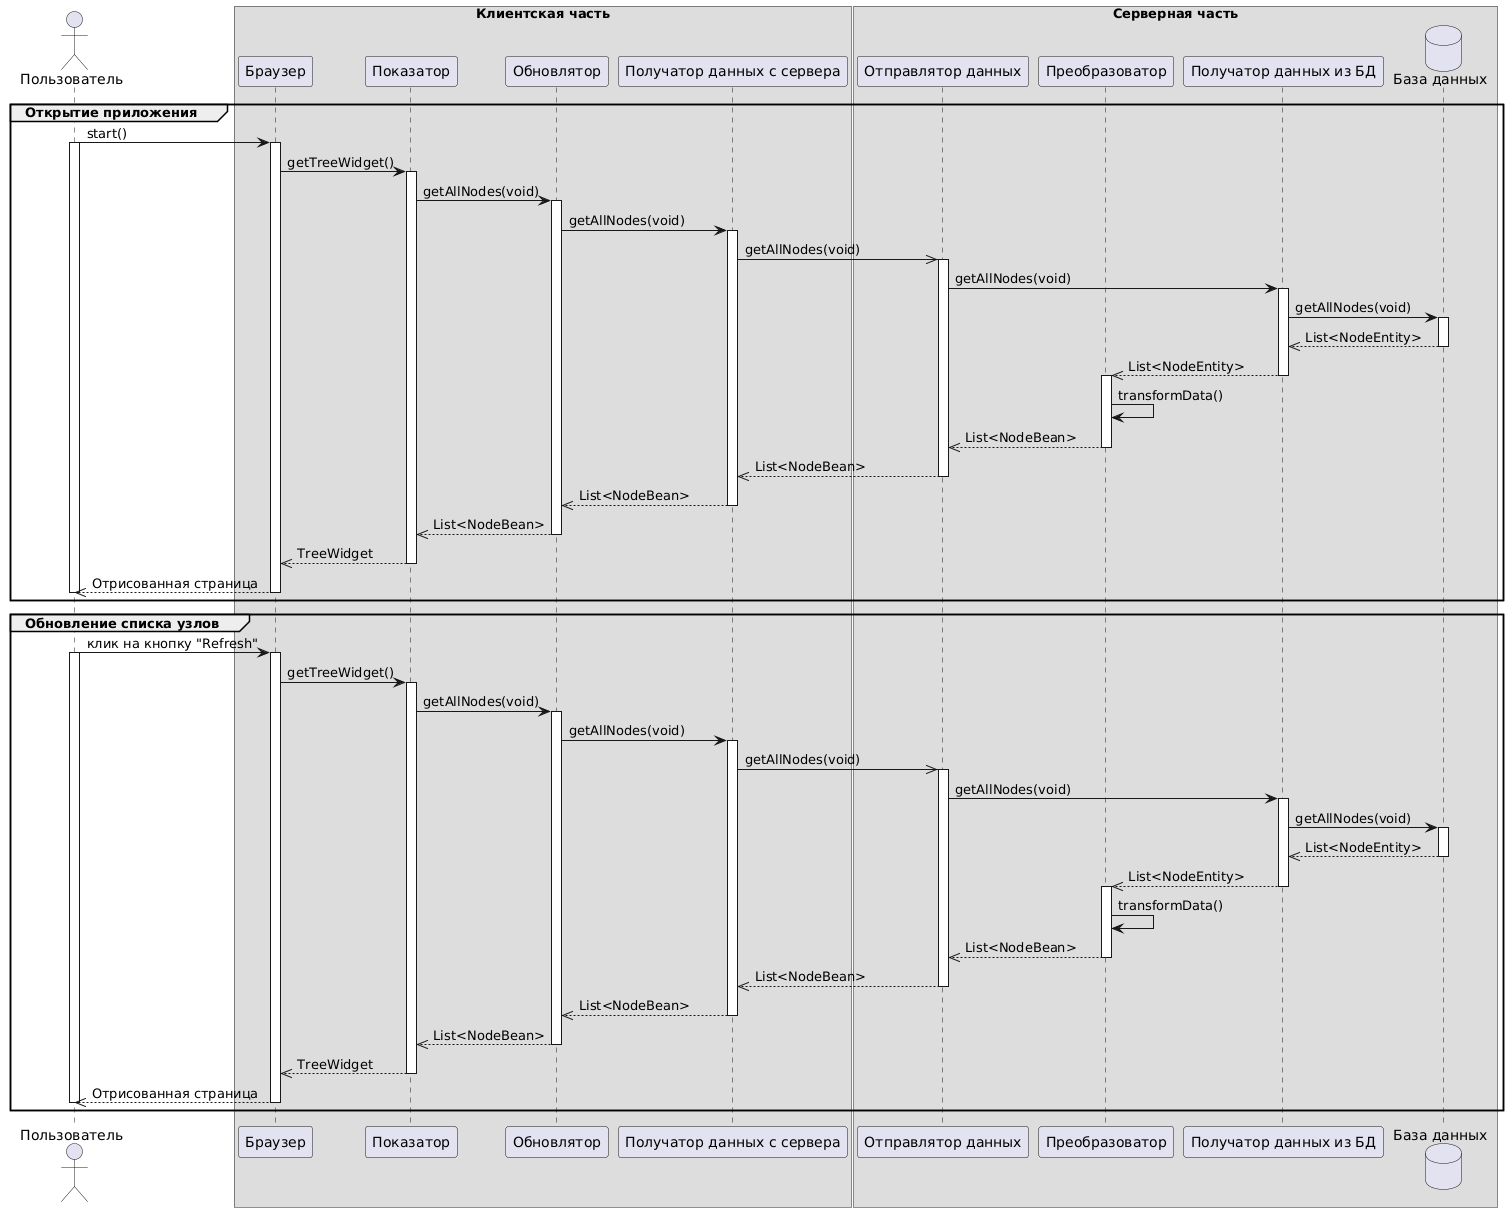
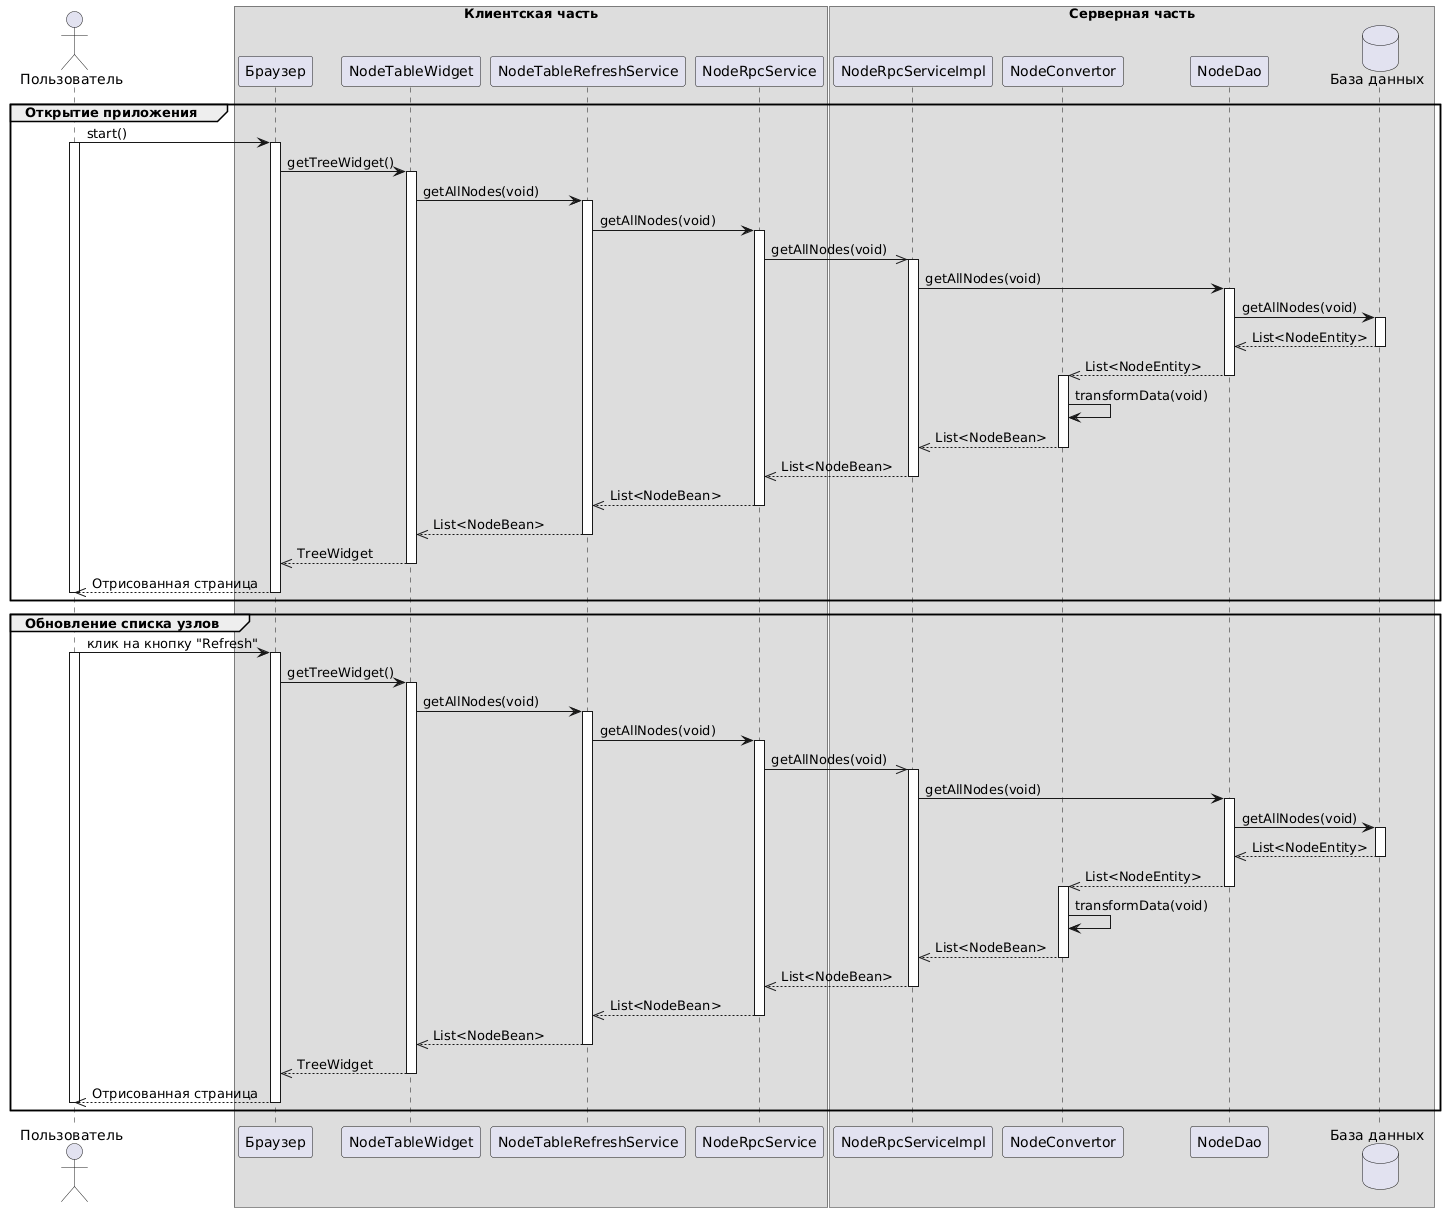
Изменены имена классов и обновлена диаграмма c4

diff --git a/docs/tree-design.md b/docs/tree-design.md
@@ -43,20 +43,20 @@
 
 ### Контекст
 
-![Контекст](./C4-Context.png)
+![Контекст](./c4-context.png)
 
 ### Контейнеры
 
-![Контейнеры](./C4-Container.png)
+![Контейнеры](./c4-container.png)
 
 ### Компонент (Клиентская часть)
 
-![Компонент (Клиентская часть)](./C4-Component%20(Client).png)
+![Компонент (Клиентская часть)](./c4-component-client.png)
 
 ### Компонент (Серверная часть)
 
-![Компонент (Серверная часть)](./C4-Component%20(Server).png)
+![Компонент (Серверная часть)](./c4-component-server.png)
 
 ## Диаграмма последовательности
 
-![Диаграмма последовательности](./Sequence-diagram.png)
+![Диаграмма последовательности](./sequence-diagram.png)
